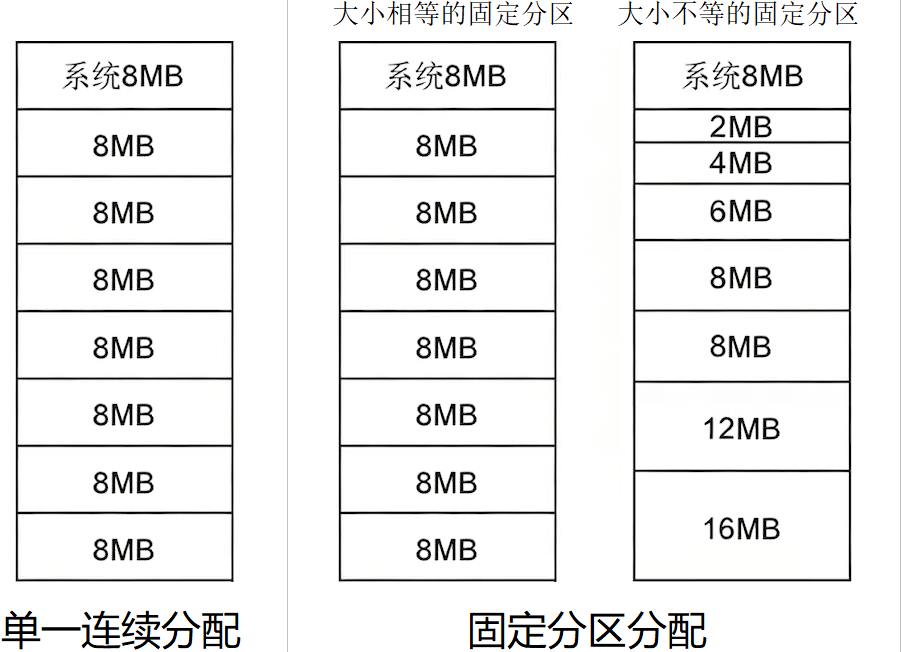
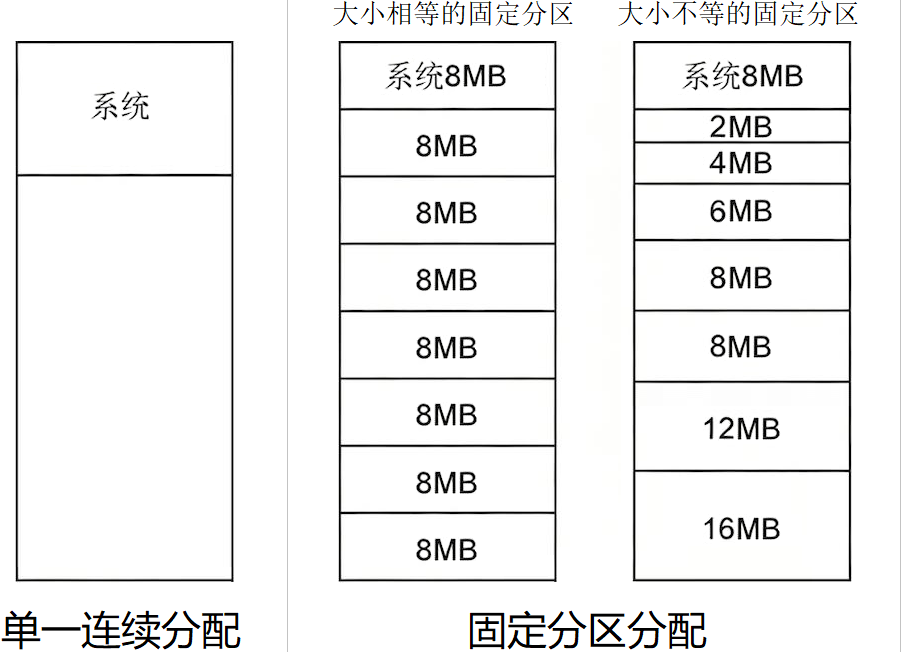
408/3-操作系统.md 06/08

diff --git a/docs/408/3-操作系统.md b/docs/408/3-操作系统.md
@@ -899,7 +899,7 @@ void philosopher_i(){
 | 装入时动态链接 | <add>程序装入时</add>，检查到对其他模块的调用，此时将模块装入并连接。<br/>特点：便于修改和更新、便于模块共享                  |
 | 运行时动态链接 | <add>程序运行中</add>，需要用到某个尚未装入的模块，此时再装入并链接。<br/>特点：加速装入过程、更加节省内存（未使用模块无需装入） |
 
-> 链接的目的是生成逻辑地址，各链接方式的区别是装入和链接的时机，各装入方式的区别是逻辑地址转化为物理地址的时机。
+> 链接方式的区别是链接的时机，装入方式的区别是逻辑地址转化的时机。
 
 | 装入方式                  | 含义                                                                                                                   |
 | :----------------------: | --------------------------------------------------------------------------------------------------------------------- |
@@ -911,20 +911,20 @@ void philosopher_i(){
 
 ### 内存保护
 
-为确保进程内存的独立性，需界定进程内存空间的范围，即内存保护。有两种越界检查的方法：
+为确保进程内存的独立性，需界定进程内存空间的范围。有两种越界检查的方法：
 
 - 设置上下限寄存器，标识上限和下限地址。
 - 使用重定位寄存器和界地址寄存器，标识起始地址和空间长度。
 
 <img src="./3-操作系统.assets/内存保护硬件.png" style="zoom: 60%;" />
 
-可见，内存保护由操作系统和硬件共同实现。
+> 可见，内存保护由操作系统和硬件共同实现。
 
 ### 内存连续分配
 
 <img src="./3-操作系统.assets/内存空间管理.png" style="zoom: 25%;" />
 
-> 程序完整的载入内存就是连续分配，部分地载入内存就是非连续分配。
+> 程序一次性全部载入内存就是连续分配，部分地载入内存就是非连续分配。
 
 | 内存连续分配                | 内容                                                                                                 |
 | ------------------------- | --------------------------------------------------------------------------------------------------- |
@@ -973,14 +973,14 @@ void philosopher_i(){
 
 ### 基本分页
 
-内存分成若干固定分区，称为页框、页帧或物理块 (通常4KB)。地址空间也分成若干同样大小的分区，称为页或页面。
+内存分成若干固定分区，称页框、页帧、物理块 (4KB)。地址空间也分成若干同样大小的分区，称为页、页面。
 
 操作系统以页为单位分配内存，因此分页只会产生内部碎片，称为页内碎片。
 
 <img src="./3-操作系统.assets/分页.png" style="zoom: 15%;" />
 
 
-页表就是页面映射表，每个页面对应一个页表项又对应到物理页框。可见，页表实现了从页号到物理块号的映射。
+页表就是页面映射表，每个页面对应一个页表项又对应到物理页框。页表实现从页号到物理块号的映射。
 
 <img src="./3-操作系统.assets/页表.png" style="zoom: 60%;" />
 